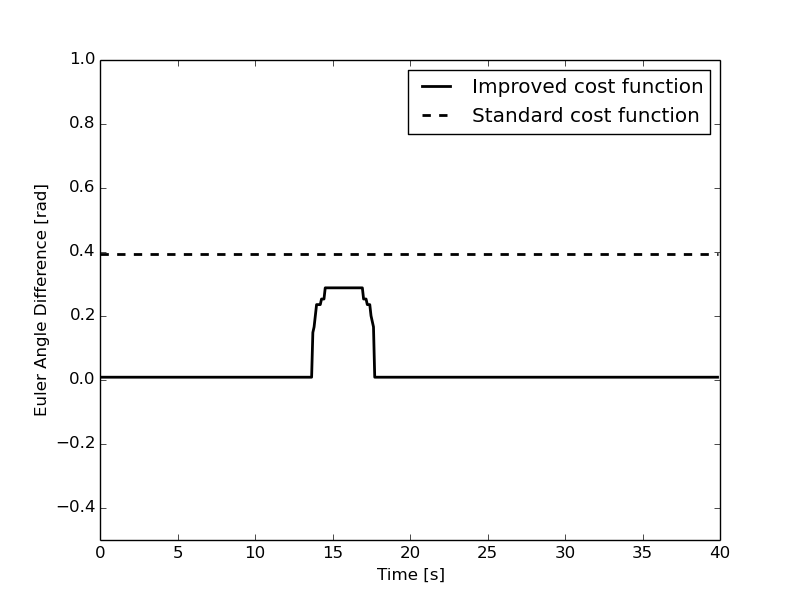
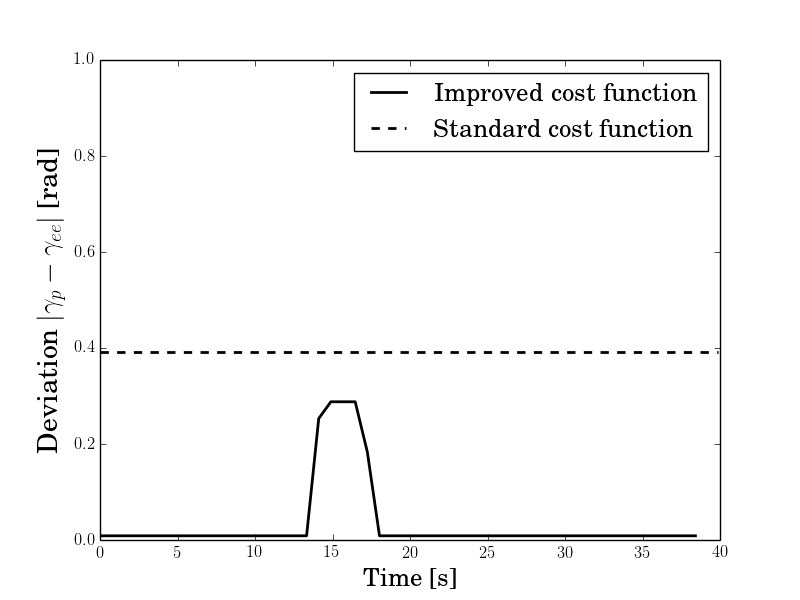
improve plots

diff --git a/plots/plotAngleErrors.py b/plots/plotAngleErrors.py
@@ -1,8 +1,12 @@
 import rosbag
-bag = rosbag.Bag('L_profile_with_weldingcost.bag')
+import matplotlib.pyplot as plt
+
+# read error of simulation with custom cost function
+#~ bag = rosbag.Bag('L_profile_with_weldingcost.bag')
+bag = rosbag.Bag('L_profile_costweight_01.bag')
 errorsX = []
 errorsY = []
-points = []
+points1 = []
 for topic, msg, t in bag.read_messages(topics=['angleErrorsX','angleErrorsY','trajectory']):
 	if topic == 'angleErrorsX':
 		errorsX = msg.data
@@ -11,21 +15,30 @@ for topic, msg, t in bag.read_messages(topics=['angleErrorsX','angleErrorsY','tr
 		errorsY = msg.data
     	
 	if topic == 'trajectory':
-		points = msg.points
+		points1 = msg.points
+		
+time1 = []
+for point in points1:
+	time1.append(point.time_from_start.secs + point.time_from_start.nsecs / 1e9)
+	
 bag.close()
 
+# read error of simulation with standard cost function
 bag2 = rosbag.Bag('L_profile_without_weldingcost.bag')
 errorsYnocost = []
-for topic, msg, t in bag2.read_messages(topics=['angleErrorsY']):
+points2 = []
+for topic, msg, t in bag2.read_messages(topics=['angleErrorsY', 'trajectory']):
 	if topic == 'angleErrorsY':
 		errorsYnocost = msg.data
+		
+	if topic == 'trajectory':
+		points2 = msg.points
+		
+time2 = []
+for point in points2:
+	time2.append(point.time_from_start.secs + point.time_from_start.nsecs / 1e9)
+		
 bag2.close()
-
-time = []
-joint_positions = []
-for point in points:
-	time.append(point.time_from_start.secs + point.time_from_start.nsecs / 1e9)
-	joint_positions.append(point.positions)
 
 #remove 'NaN' values from lists (supposed to be 0)
 count = 0
@@ -46,11 +59,20 @@ for error in errorsYnocost:
 		errorsYnocost[count] = 0.0
 	count += 1
 	
-import matplotlib.pyplot as plt
-plt.plot(time, errorsY, 'k', time, errorsYnocost, 'k--', linewidth=2.0)
-plt.ylabel('Euler Angle Difference [rad]')
-plt.xlabel('Time [s]')
-plt.axis([0, 40, -0.5, 1])
-plt.legend(['Improved cost function', 'Standard cost function'])
+#~ from matplotlib import rc
+#~ rc('font',**{'family':'sans-serif','sans-serif':['Helvetica']})
+#~ ## for Palatino and other serif fonts use:
+#~ #rc('font',**{'family':'serif','serif':['Palatino']})
+#~ rc('text', usetex=True)
+
+# use same font as in latex http://matplotlib.org/users/usetex.html
+plt.rc('text', usetex=True)
+plt.rc('font', family='serif')
+# create plot
+plt.plot(time1, errorsY, 'k', time2, errorsYnocost, 'k--', linewidth=2.0)
+plt.ylabel(r'Deviation $|\gamma_p - \gamma_{ee}|$ [rad]', fontsize=20)
+plt.xlabel('Time [s]', fontsize=18)
+plt.axis([0, 40, 0, 1])
+plt.legend(['Improved cost function', 'Standard cost function'], fontsize=18)
 #~ plt.show()
-plt.savefig("compare_cost_functions.png")
+plt.savefig("compare_cost_functions.png", fontsize=18)

diff --git a/plots/plotAnglesWithCost.py b/plots/plotAnglesWithCost.py
@@ -24,7 +24,8 @@ bag.close()
 
 # read bag l profile B
 # ====================
-bagB = rosbag.Bag('L_profile_with_weldingcost.bag')
+#~ bagB = rosbag.Bag('L_profile_with_weldingcost.bag')
+bagB = rosbag.Bag('L_profile_costweight_01.bag')
 points = []
 for topic, msg, t in bagB.read_messages(topics=['trajectory']):
     points = msg.points
@@ -45,21 +46,27 @@ bagB.close()
 
 # create plot
 # ===========
-plt.figure(figsize=(8, 4))
+# use same font as in latex http://matplotlib.org/users/usetex.html
+plt.rc('text', usetex=True)
+plt.rc('font', family='serif')
+plt.figure(figsize=(8, 6))
 #~ plt.subplot(121)
 #~ for i in range(0, 6):
 	#~ plt.plot(tA, jA[i])
 #~ plt.title("Case A: Cylinder")
 #~ plt.ylabel('Joint angles [rad]')
 #~ plt.xlabel('Time [s]')
-plt.legend(['Joint 1', 'Joint 2', 'Joint 3', 'Joint 4', 'Joint 5', 'Joint 6'])
+#~ plt.legend(['Joint 1', 'Joint 2', 'Joint 3', 'Joint 4', 'Joint 5', 'Joint 6'])
 #~ 
 #~ plt.subplot(122)
 for i in range(0, 6):
 	plt.plot(tB, jB[i])
-plt.title("Case B: L-profile")
-plt.xlabel('Time [s]')
+plt.title("Case B: L-profile with cost function", fontsize=18)
+plt.xlabel('Time [s]', fontsize=18)
+plt.ylabel('Joint angles [rad]', fontsize=18)
+plt.axis([0, 40, -0.5, 2.5])
+
 #~ plt.legend(['Joint 1', 'Joint 2', 'Joint 3', 'Joint 4', 'Joint 5', 'Joint 6'])
 
-#~ plt.savefig("joint_angles_with_cost.png")
-plt.show()
+plt.savefig("joint_angles_with_cost.png")
+#~ plt.show()

diff --git a/plots/plotAngles.py b/plots/plotAngles.py
@@ -45,21 +45,28 @@ bagB.close()
 
 # create plot
 # ===========
+# use same font as in latex http://matplotlib.org/users/usetex.html
+plt.rc('text', usetex=True)
+plt.rc('font', family='serif')
+
 plt.figure(figsize=(8, 4))
 plt.subplot(121)
 for i in range(0, 6):
 	plt.plot(tA, jA[i])
-plt.title("Case A: Cylinder")
-plt.ylabel('Joint angles [rad]')
-plt.xlabel('Time [s]')
+plt.title("Case A: Cylinder", fontsize=18)
+plt.ylabel('Joint angles [rad]', fontsize=18)
+plt.xlabel('Time [s]', fontsize=18)
 #~ plt.legend(['Joint 1', 'Joint 2', 'Joint 3', 'Joint 4', 'Joint 5', 'Joint 6'])
 
 plt.subplot(122)
 for i in range(0, 6):
 	plt.plot(tB, jB[i])
-plt.title("Case B: L-profile")
-plt.xlabel('Time [s]')
+plt.title("Case B: L-profile", fontsize=18)
+plt.xlabel('Time [s]', fontsize=18)
 #~ plt.legend(['Joint 1', 'Joint 2', 'Joint 3', 'Joint 4', 'Joint 5', 'Joint 6'])
+
+# avoid the x-label from being cut off
+plt.gcf().subplots_adjust(bottom=0.15)
 
 plt.savefig("joint_angles_AB2.png")
 #~ plt.show()
